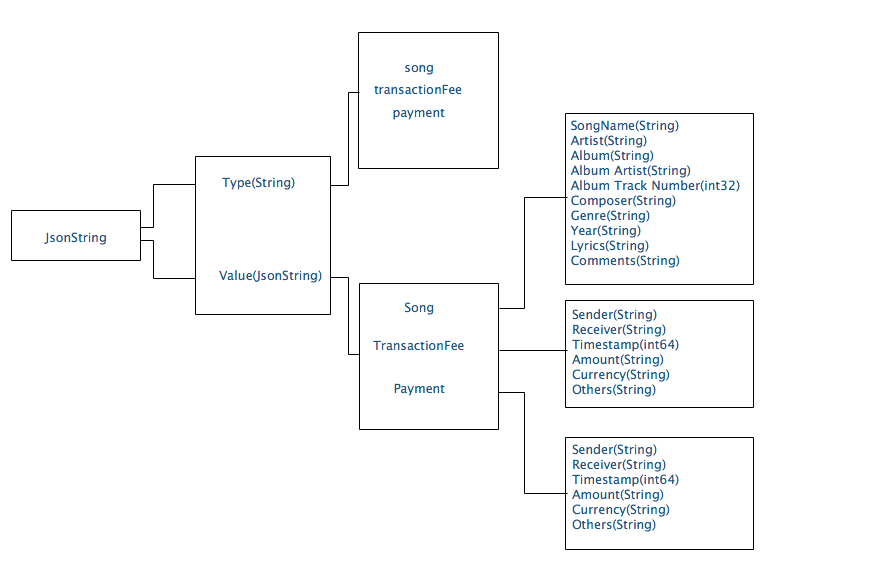
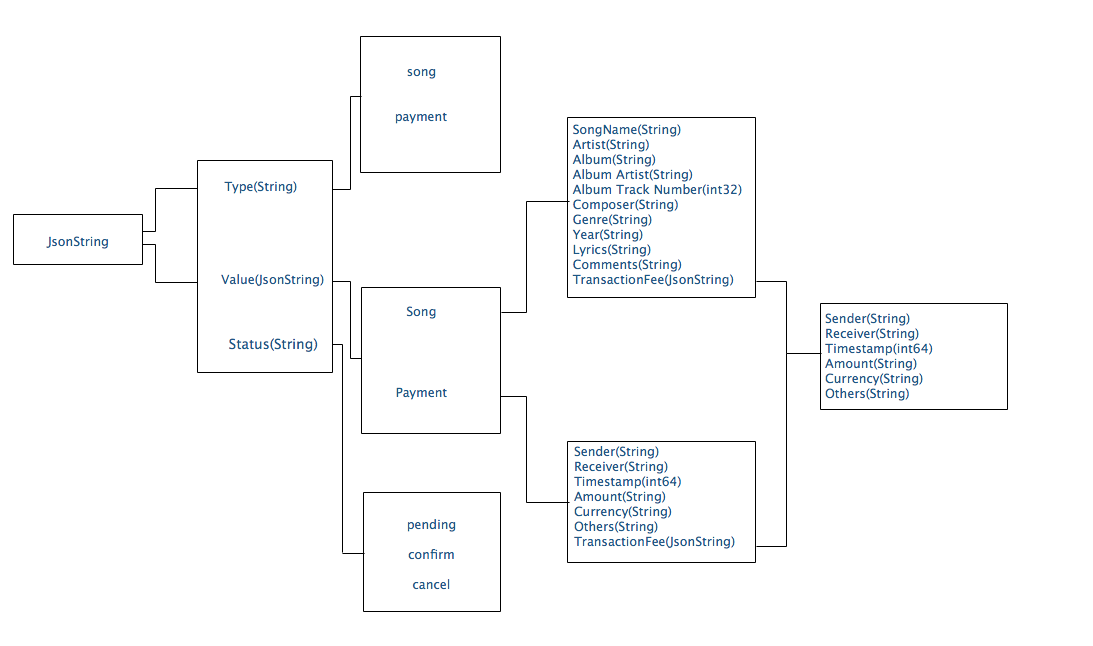
update design data structure

diff --git a/README.md b/README.md
@@ -54,11 +54,34 @@ Furthermore, fans can raise money to let their idols post new songs.
    - For the mpt, which stores key-value pair structure, the key would be [userID]+id+[timeStamp], the value structure would be:
    ![](images/mptStructure.png)
    
+- ### My wallet
+    How do you make it easier for users to manage their tokens and make transactions? What we need is a wallet.
+    Users can store their tokens in their wallet and check the balance.
+    In order to make it easier, here the initial amount of the wallet will be assumed and default setting to 100 ETH.
+
+- ### Node type
+    A node can be a regular user or can be a miner.
+    - regular user: send/receive transactions, sync blocks and blockchain
+    - miner: solve the puzzle, generate the new block and sync blockchain
+    - both user and miner: can do both things above
+     
+- ### Algorithm of posting it to blockchain
+    - When the user make a transaction either song or payment, you will send the transaction the all the miners.
+    - Miners will hold a Pending SyncTransactionPool which stores all the transactions need to be add to a new block and be confirmed.
+    - Miners choose the transactions(typically will choose the one has higher transaction fee) and solve the puzzle and make the new block.
+    - When the new block is added into the canonical blockchain, all the status of the transactions in that block will be confirmed and will be removed from the Pending SyncTransactionPool.
+    - Miner Rewards
+        - Transaction Fee per transaction	0.0005 ETH
+        - Block Reward                      3      ETH
+
+
 ## References
 [1] Inspiration from Xiaosong Gao, who is the Chairmen of Alibaba Music Group and the Chairman of Alibaba Entertainment Strategic Committee.
 
 [2] Song Metadata Standards "https://www.synchtank.com/blog/the-guild-of-music-supervisors-suggested-metadata-standards/"
 
 [3] Inside an Ethereum transaction "https://medium.com/@codetractio/inside-an-ethereum-transaction-fa94ffca912f"
+
+[4] Life Cycle of an Ethereum Transaction "https://medium.com/blockchannel/life-cycle-of-an-ethereum-transaction-e5c66bae0f6e"
 
 
